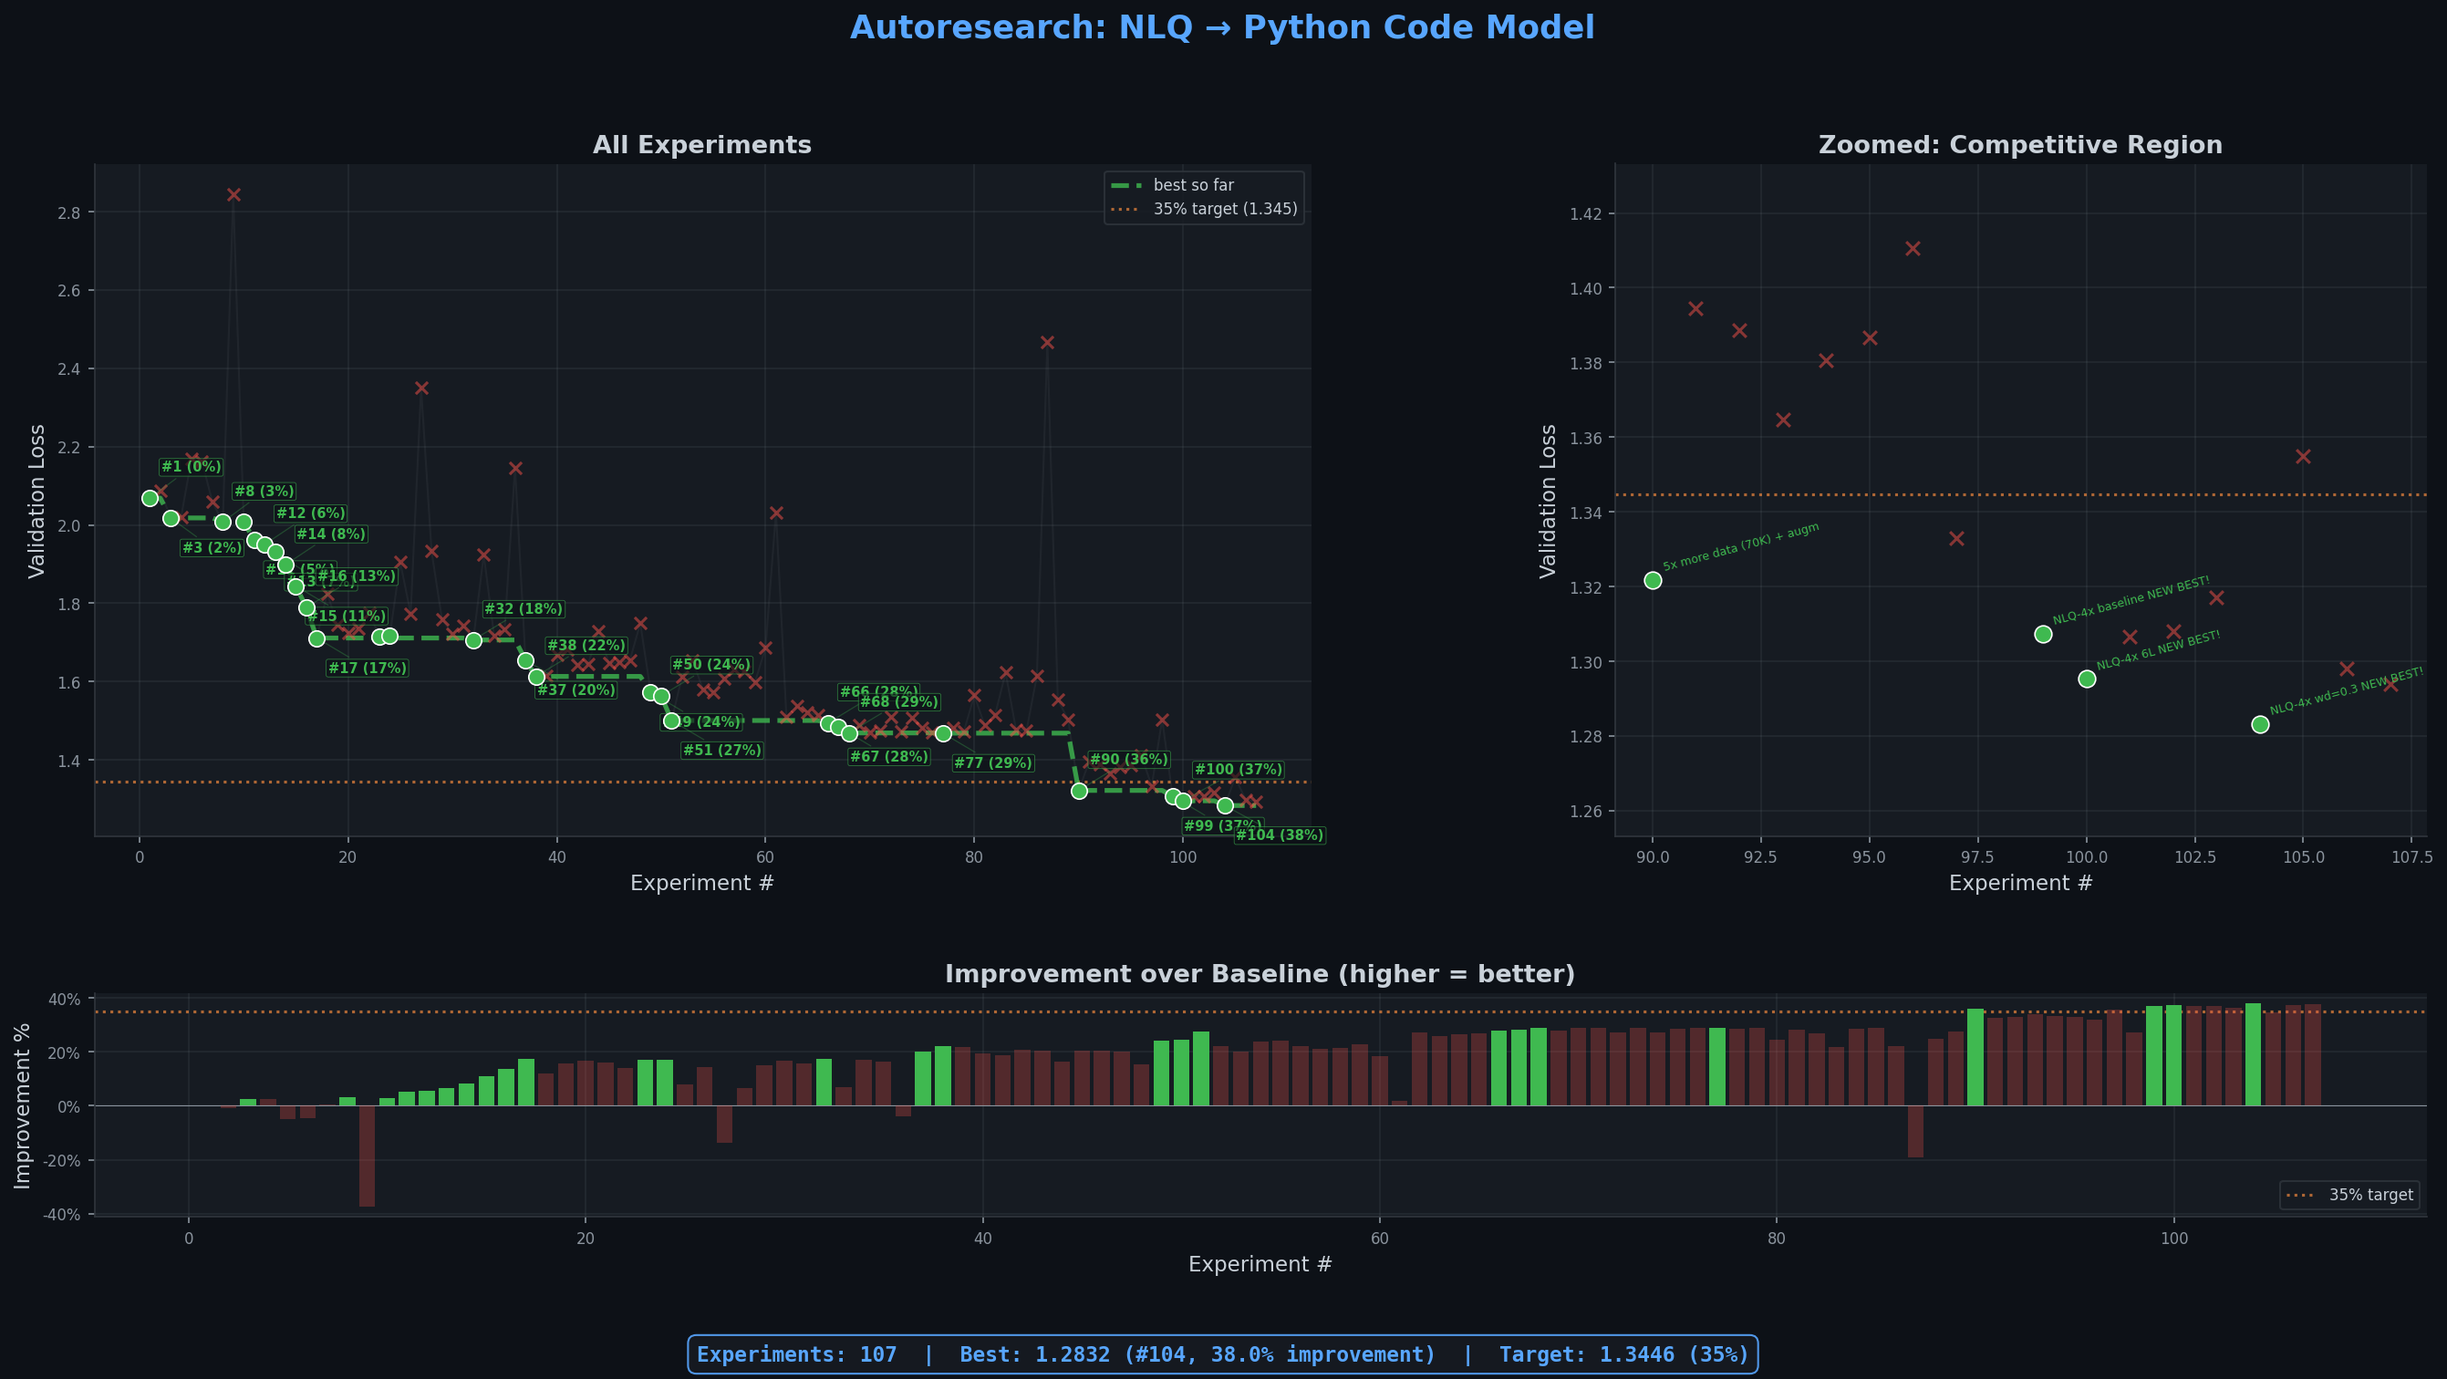
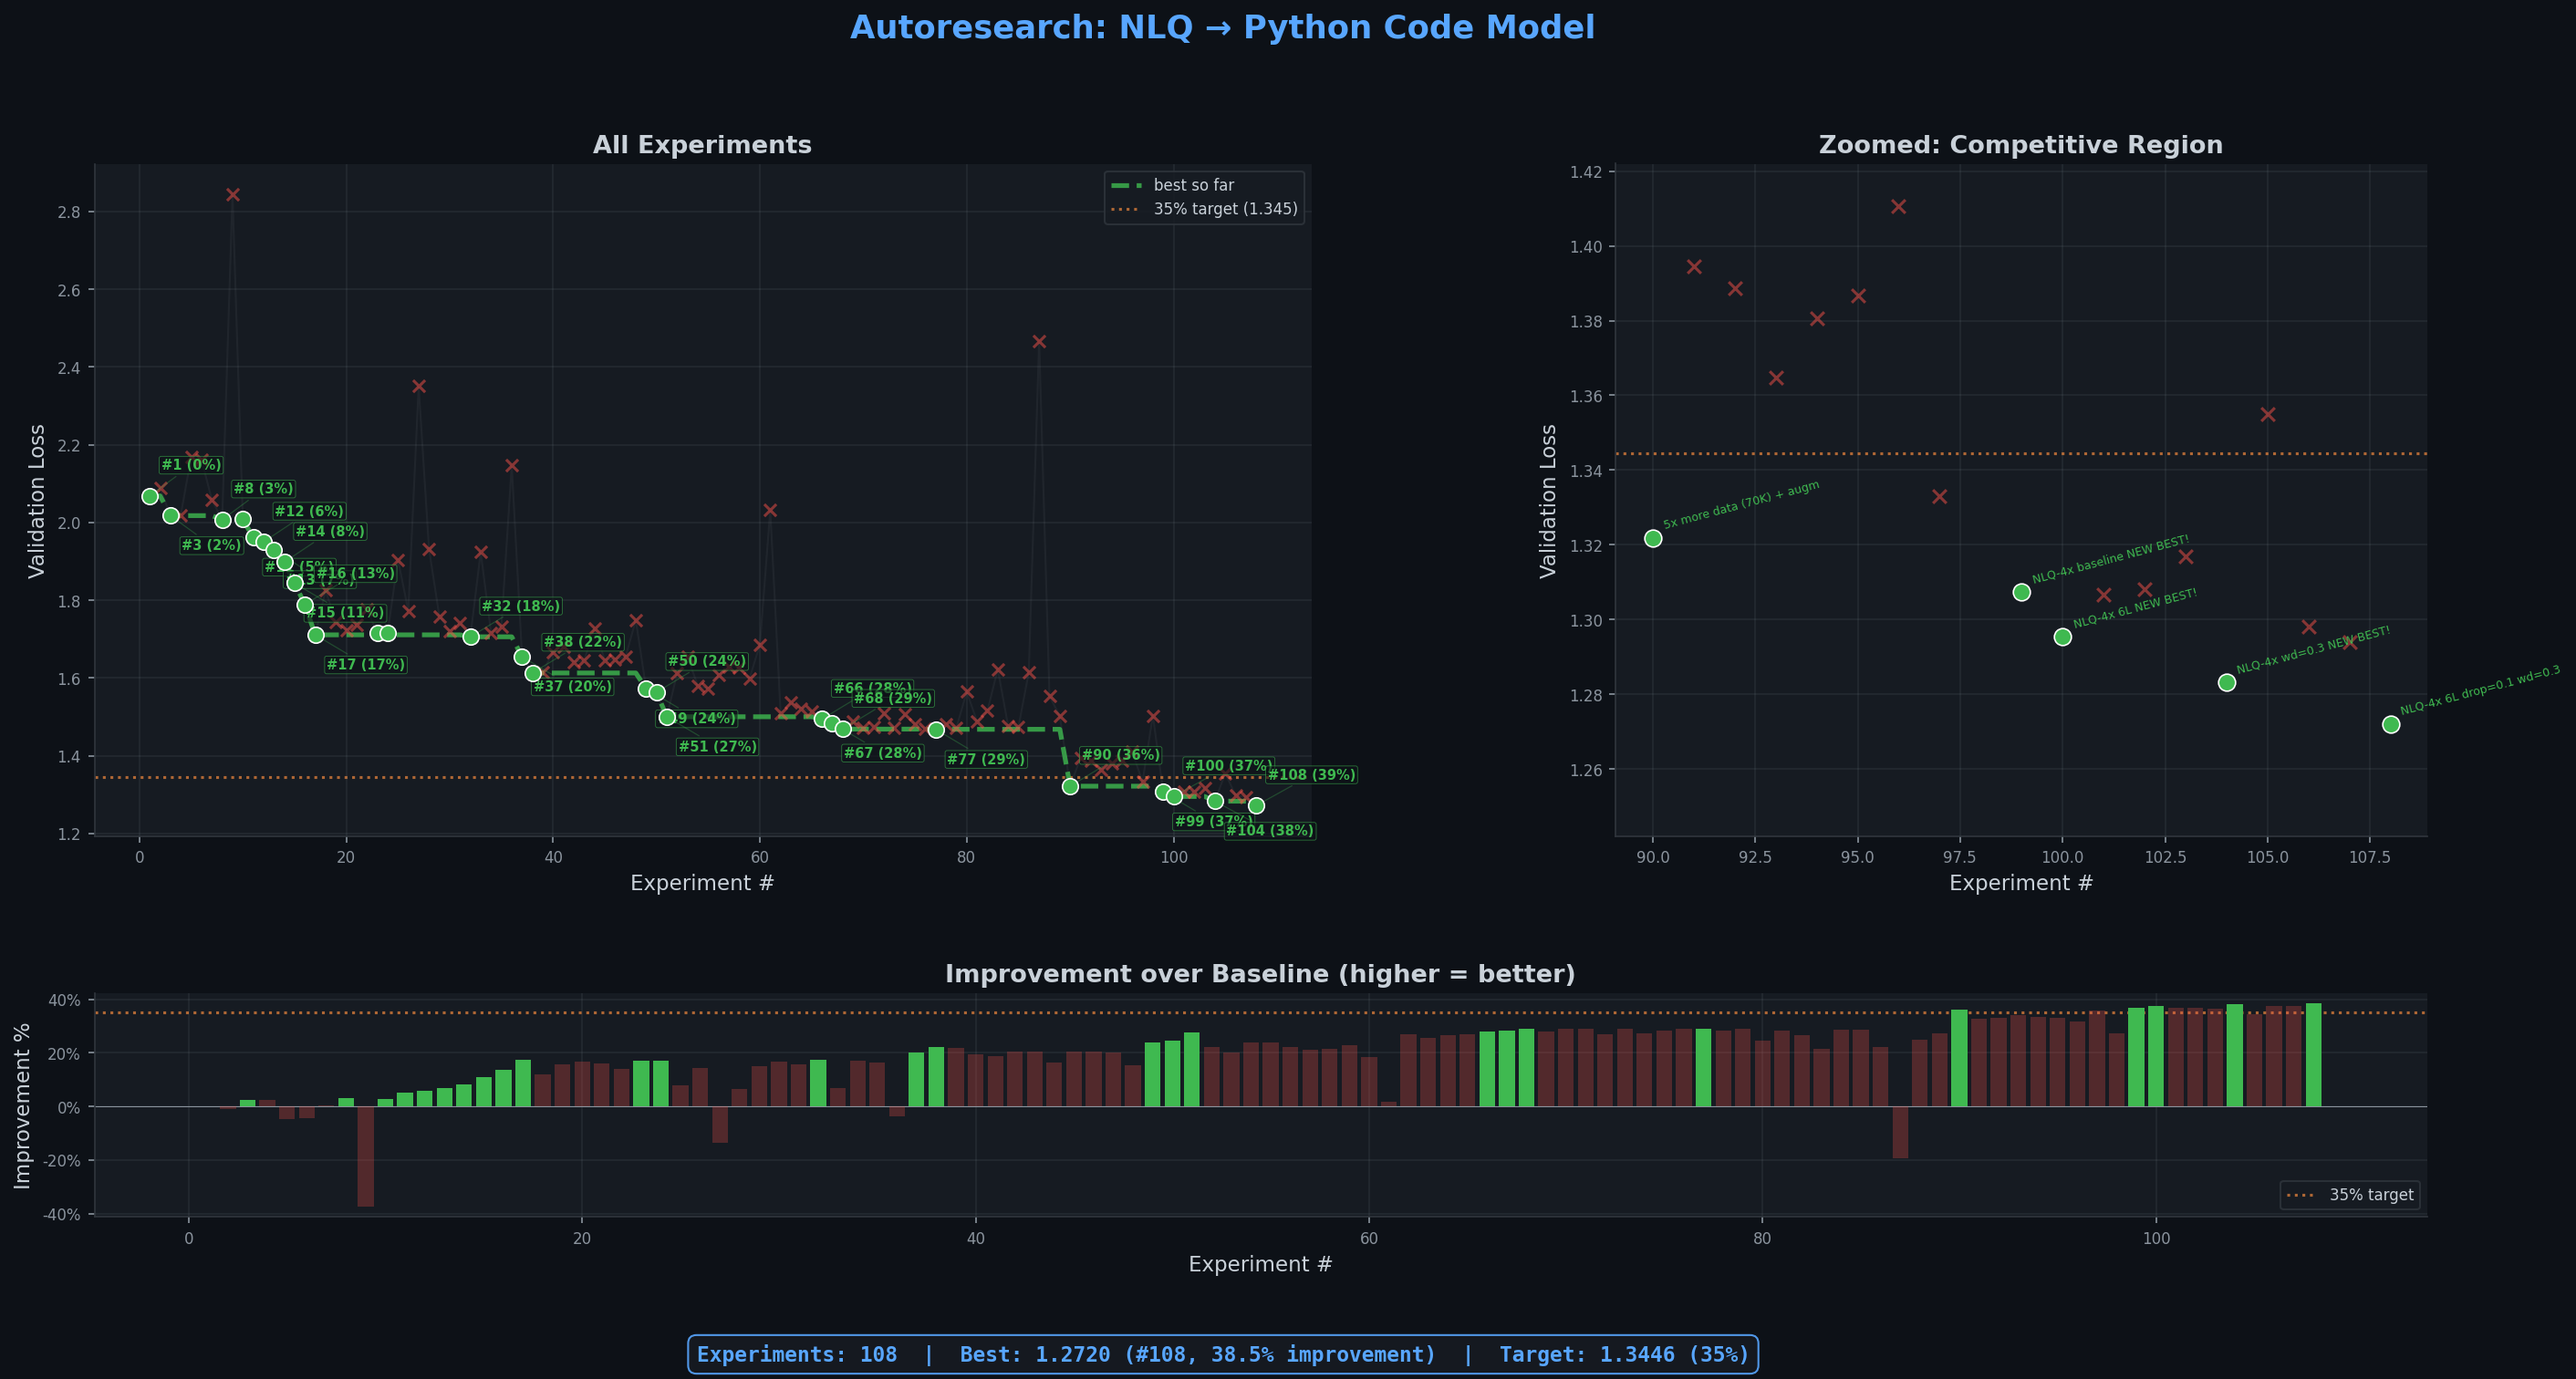
exp 108: NLQ-4x 6L drop=0.1 wd=0.3 NEW BEST! (val=1.2720, 38.5%)

diff --git a/train_mlx.py b/train_mlx.py
@@ -36,19 +36,19 @@ TOKENIZER_DIR = os.path.join(CACHE_DIR, "tokenizer")
 # Model
 VOCAB_SIZE = 2048
 MAX_SEQ_LEN = 512
-DEPTH = 5
+DEPTH = 6
 N_EMBD = 320
 HEAD_DIM = 64
 N_HEAD = N_EMBD // HEAD_DIM  # 5
 N_KV_HEAD = N_HEAD
 MLP_RATIO = 4
 USE_SWIGLU = False
-DROPOUT = 0.2
+DROPOUT = 0.1
 
 # Training
 BATCH_SIZE = 8
 LEARNING_RATE = 3e-3
-WEIGHT_DECAY = 0.5
+WEIGHT_DECAY = 0.3
 WARMUP_STEPS = 300
 TIME_BUDGET = 600
 GRAD_CLIP = 1.0
